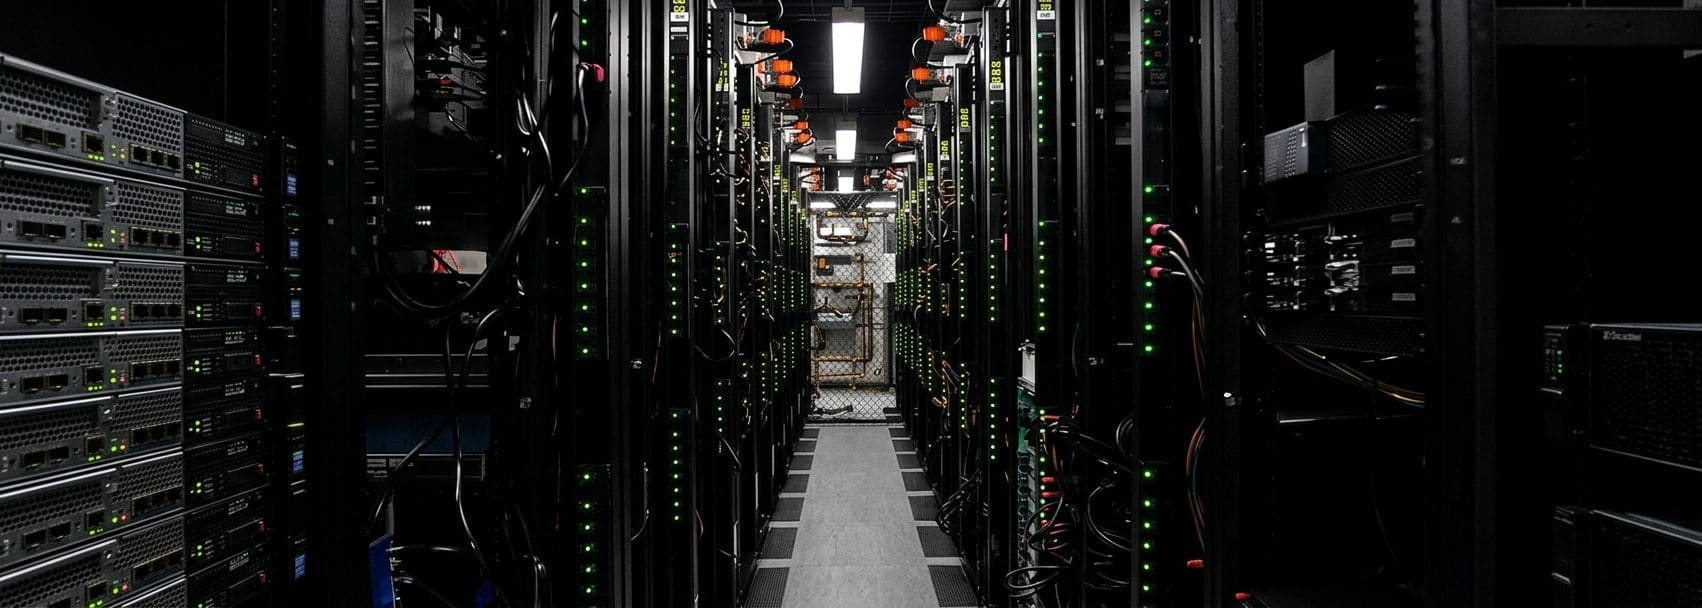
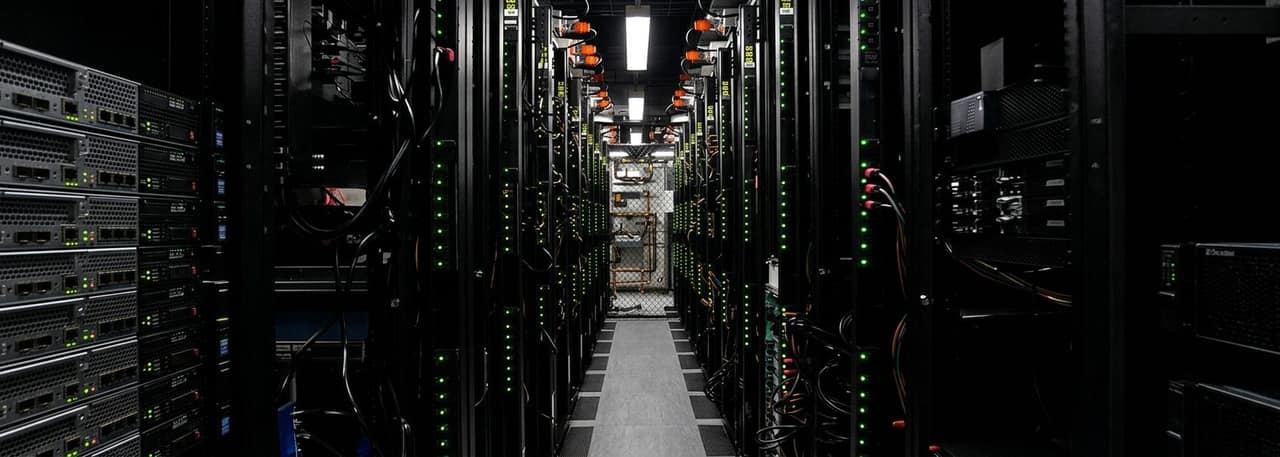
perf: serve responsive hero images and lazy-split below-fold sections
Cut mobile LCP weight with sized WebP sources, keep the avatar animation compositor-friendly, and defer Portfolio/Blog/Contact chunks until near the viewport.

diff --git a/src/App.tsx b/src/App.tsx
@@ -1,11 +1,17 @@
+import { lazy, Suspense } from "react";
 import Navbar from "./components/Navbar";
 import Hero from "./components/Hero";
 import About from "./components/About";
-import Portfolio from "./components/Portfolio";
-import Blog from "./components/Blog";
-import Contact from "./components/Contact";
 import BackToTop from "./components/BackToTop";
 import DeferredSection from "./components/DeferredSection";
+
+const Portfolio = lazy(() => import("./components/Portfolio"));
+const Blog = lazy(() => import("./components/Blog"));
+const Contact = lazy(() => import("./components/Contact"));
+
+function SectionFallback({ minHeight }: { minHeight: number }) {
+  return <div style={{ minHeight }} aria-hidden="true" />;
+}
 
 export default function App() {
   return (
@@ -13,10 +19,23 @@ export default function App() {
       <Navbar />
       <Hero />
       <About />
-      <Portfolio />
-      <Blog />
+
+      <DeferredSection id="portfolio" minHeight={720}>
+        <Suspense fallback={<SectionFallback minHeight={720} />}>
+          <Portfolio />
+        </Suspense>
+      </DeferredSection>
+
+      <DeferredSection id="blog" minHeight={640}>
+        <Suspense fallback={<SectionFallback minHeight={640} />}>
+          <Blog />
+        </Suspense>
+      </DeferredSection>
+
       <DeferredSection id="contact" minHeight={640}>
-        <Contact />
+        <Suspense fallback={<SectionFallback minHeight={640} />}>
+          <Contact />
+        </Suspense>
       </DeferredSection>
 
       <BackToTop />

diff --git a/src/globals.css b/src/globals.css
@@ -74,23 +74,21 @@
   }
 }
 
+/* Transform-only so the animation stays compositor-friendly (no box-shadow keyframes). */
 @keyframes floatAvatar {
-  0% {
-    box-shadow: 0 3px 15px 0 rgba(0, 0, 0, 0.6);
-    transform: translateY(0px);
+  0%,
+  100% {
+    transform: translate3d(0, 0, 0);
   }
   50% {
-    box-shadow: 0 23px 13px 0 rgba(0, 0, 0, 0.2);
-    transform: translateY(-18px);
-  }
-  100% {
-    box-shadow: 0 3px 13px 0 rgba(0, 0, 0, 0.6);
-    transform: translateY(0px);
+    transform: translate3d(0, -18px, 0);
   }
 }
 
 .img-avatar {
   border: 5px white solid;
+  box-shadow: 0 8px 18px 0 rgba(0, 0, 0, 0.55);
+  will-change: transform;
   animation: floatAvatar 4.5s ease-in-out infinite;
 }
 

diff --git a/index.html b/index.html
@@ -59,8 +59,25 @@
     <link
       rel="preload"
       as="image"
+      href="/images/background6_enhanced-800.webp"
+      type="image/webp"
+      media="(max-width: 767px)"
+      fetchpriority="high"
+    />
+    <link
+      rel="preload"
+      as="image"
+      href="/images/background6_enhanced-1280.webp"
+      type="image/webp"
+      media="(min-width: 768px) and (max-width: 1279px)"
+      fetchpriority="high"
+    />
+    <link
+      rel="preload"
+      as="image"
       href="/images/background6_enhanced.webp"
       type="image/webp"
+      media="(min-width: 1280px)"
       fetchpriority="high"
     />
 

diff --git a/src/components/Hero.tsx b/src/components/Hero.tsx
@@ -6,6 +6,16 @@ export default function Hero() {
     >
       <picture className="absolute inset-0">
         <source
+          media="(max-width: 767px)"
+          srcSet="/images/background6_enhanced-800.webp"
+          type="image/webp"
+        />
+        <source
+          media="(max-width: 1279px)"
+          srcSet="/images/background6_enhanced-1280.webp"
+          type="image/webp"
+        />
+        <source
           srcSet="/images/background6_enhanced.webp"
           type="image/webp"
         />

diff --git a/src/components/Blog.tsx b/src/components/Blog.tsx
@@ -21,7 +21,7 @@ export default function Blog() {
   const error = posts.length === 0;
 
   return (
-    <article id="blog" className="bg-[#2b2b2b] section-padding relative">
+    <article className="bg-[#2b2b2b] section-padding relative">
       <div className="container mx-auto px-4">
         <div className="text-center mb-8 mt-8 text-white">
           <MediumIcon size="4em" className="mx-auto" />

diff --git a/src/components/Portfolio.tsx b/src/components/Portfolio.tsx
@@ -110,7 +110,7 @@ export default function Portfolio() {
   }, []);
 
   return (
-    <article id="portfolio" className="bg-[#202020] section-padding relative">
+    <article className="bg-[#202020] section-padding relative">
       <div className="container mx-auto px-4">
         <div className="text-center mt-24">
           <img
